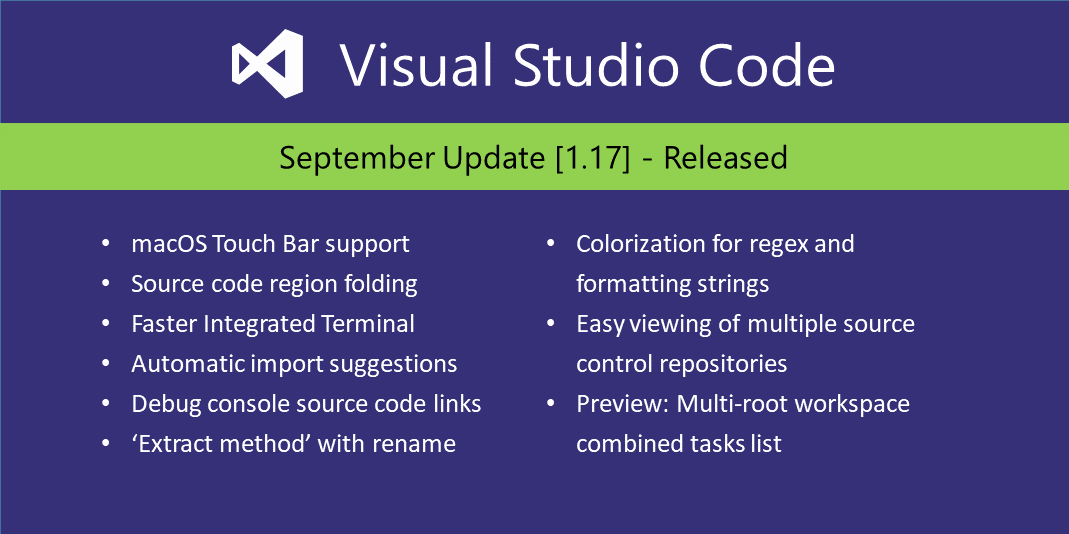
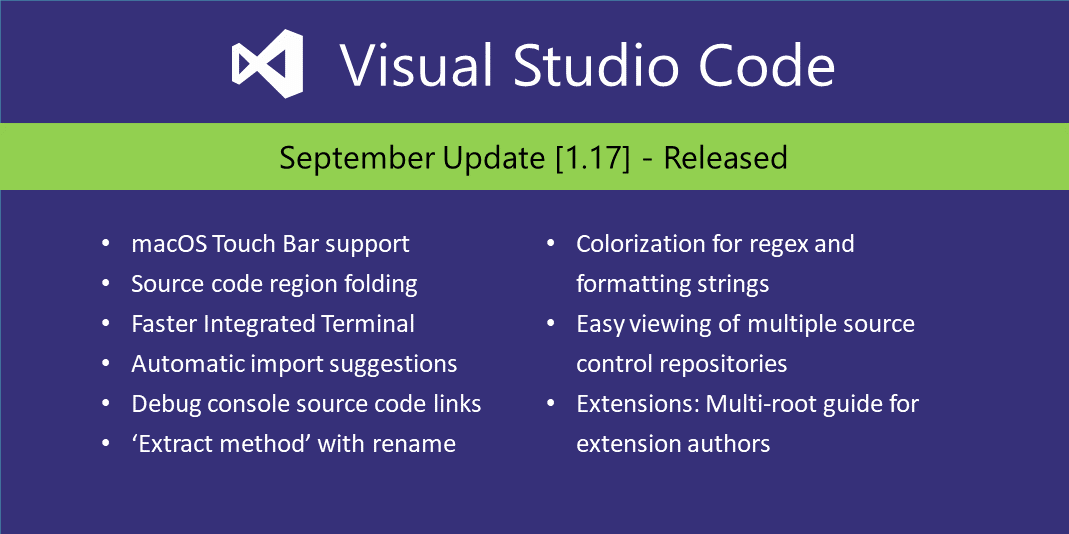
Update 1.17 social image

Changed region(s): [[0.5248, 0.7191, 0.8644, 0.779], [0.5248, 0.809, 0.7409, 0.8689]]

diff --git a/release-notes/v1_17.md b/release-notes/v1_17.md
@@ -18,7 +18,7 @@ Welcome to the September 2017 release of Visual Studio Code. There are a number 
 * **[Improved multiple SCM support](#source-control)** - New UI to view changes in multiple source control repositories.
 * **[New online documentation](#new-documentation)** - Java language, 'Tips and Tricks', and Debugging Recipes topics.
 * **[Preview: Multi-root workspaces](#preview-multi-root-workspaces)** - No reload on workspace updates, combined view of available tasks.
-* **[Extensions: Multi-root guide for extension authors](#multi-root-guide-for-extension-authors)** - we have created guidelines to help extenders prepare for the roll-out of multi-root.
+* **[Extensions: Multi-root guide for extension authors](#multi-root-guide-for-extension-authors)** - To help extenders be ready for multi-root workspaces.
 
 >If you'd like to read these release notes online, go to [Updates](https://code.visualstudio.com/updates) on [code.visualstudio.com](https://code.visualstudio.com).
 
@@ -57,8 +57,8 @@ We've updated the VS Code logo and colors, orange for the stable release and gre
 
 Release | Stable | Insiders
 --- | --- | ---
-**macOS / Linux** | <img width="50" alt="macOS stable" src="images/1_17/mac-stable-orange.png"/> | <img width="50" alt="Windows stable" src="images/1_17/mac-insiders-green.png"/>
-**Windows** | <img width="40" alt="macOS insiders" src="images/1_17/windows-stable-orange.png"/> | <img width="40" alt="Windows insiders" src="images/1_17/windows-insiders-green.png"/>
+**macOS / Linux** | <img width="80" alt="macOS stable" src="images/1_17/mac-stable-orange.png"/> | <img width="80" alt="Windows stable" src="images/1_17/mac-insiders-green.png"/>
+**Windows** | <img width="65" alt="macOS insiders" src="images/1_17/windows-stable-orange.png"/> | <img width="65" alt="Windows insiders" src="images/1_17/windows-insiders-green.png"/>
 
 Note: Depending on your platform, you may still see the earlier logo due to operating system caching of the application icon.
 
@@ -393,7 +393,7 @@ The extension authors guide covers:
 * Settings
 * Impact on extensions that have a language client/server model
 
-In addition to the guide, there are new samples on our [samples repository](https://github.com/Microsoft/vscode-extension-samples) that exercise the new APIs. Look for samples with 'multi' in their folder name (for example, [basic-multi-root-sample](https://github.com/Microsoft/vscode-extension-samples/tree/master/basic-multi-root-sample).
+In addition to the guide, there are new samples on our [samples repository](https://github.com/Microsoft/vscode-extension-samples) that exercise the new APIs. Look for samples with 'multi' in their folder name (for example, [basic-multi-root-sample](https://github.com/Microsoft/vscode-extension-samples/tree/master/basic-multi-root-sample)).
 
 
 ### File Save & File Open dialogs
